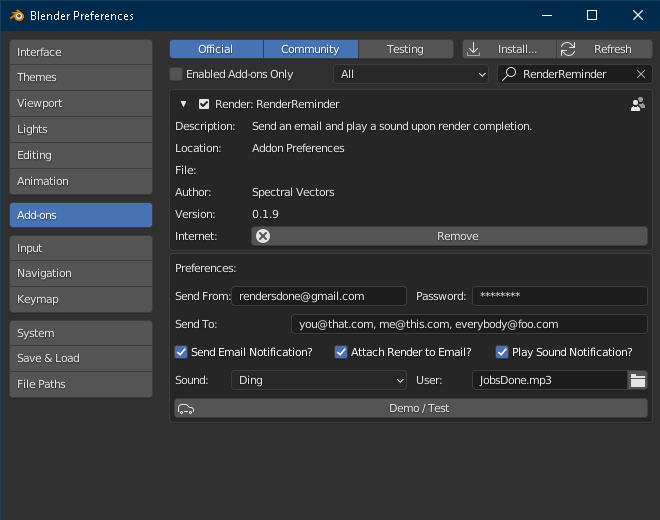
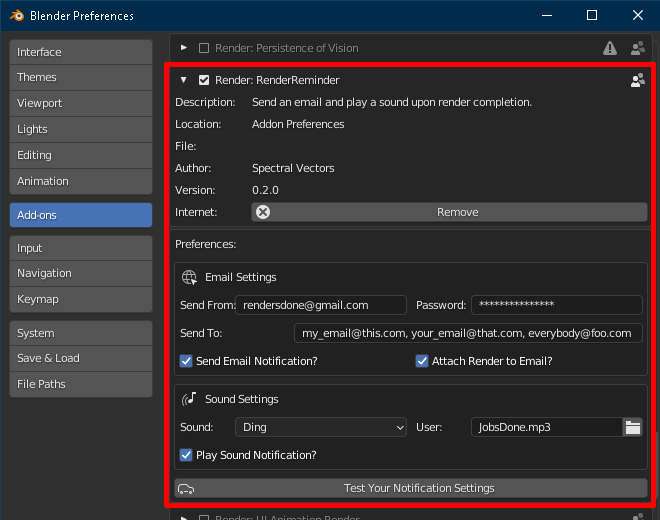
Add files via upload

Changed region(s): [[0.2424, 0.0615, 1.0, 1.0]]

diff --git a/RenderReminder.py b/RenderReminder.py
@@ -2,7 +2,7 @@ bl_info = {
     'name': 'RenderReminder',
     'category': 'Render',
     'author': 'Spectral Vectors',
-    'version': (0, 1, 9),
+    'version': (0, 2, 0),
     'blender': (3, 00, 0),
     'location': 'Addon Preferences',
     'description': 'Send an email and play a sound upon render completion.'
@@ -124,23 +124,31 @@ class RenderReminderAddonPreferences(AddonPreferences):
 
     def draw(self, context):
         layout = self.layout
-        row = layout.row()
+
+        box = layout.box()
+        label = box.label(text="Email Settings", icon="URL")
+        row = box.row()
         row.prop(self, "sender_email")
         row.prop(self, "password")
-        row = layout.row()
+        row = box.row()
         row.prop(self, "receiver_email")
-        row = layout.row()
+        row = box.row()
         row.prop(self, "sendemail")
         row.prop(self, "includerender")
-        row.prop(self, "playsound")
-        row = layout.row()
+        
+        box = layout.box()
+        label = box.label(text="Sound Settings", icon="SPEAKER")
+        row = box.row()
         row.prop(self, "soundselect")
         row.prop(self, "usersound")
+        row = box.row()
+        row.prop(self, "playsound")
+
         row = layout.row()
-        row.operator("renderreminder.send_email", text='Demo / Test', icon='AUTO')
+        row.operator("renderreminder.send_email", text='Test Your Notification Settings', icon='AUTO')
 
 class RR_send_email(Operator):
-    """Test Your Notification Settings"""
+    """Test your notification settings first to ensure everything works before trusting a long render to it!"""
     bl_idname = "renderreminder.send_email"
     bl_label = "Send Notification Email"
     bl_options = {'REGISTER', 'UNDO'}
